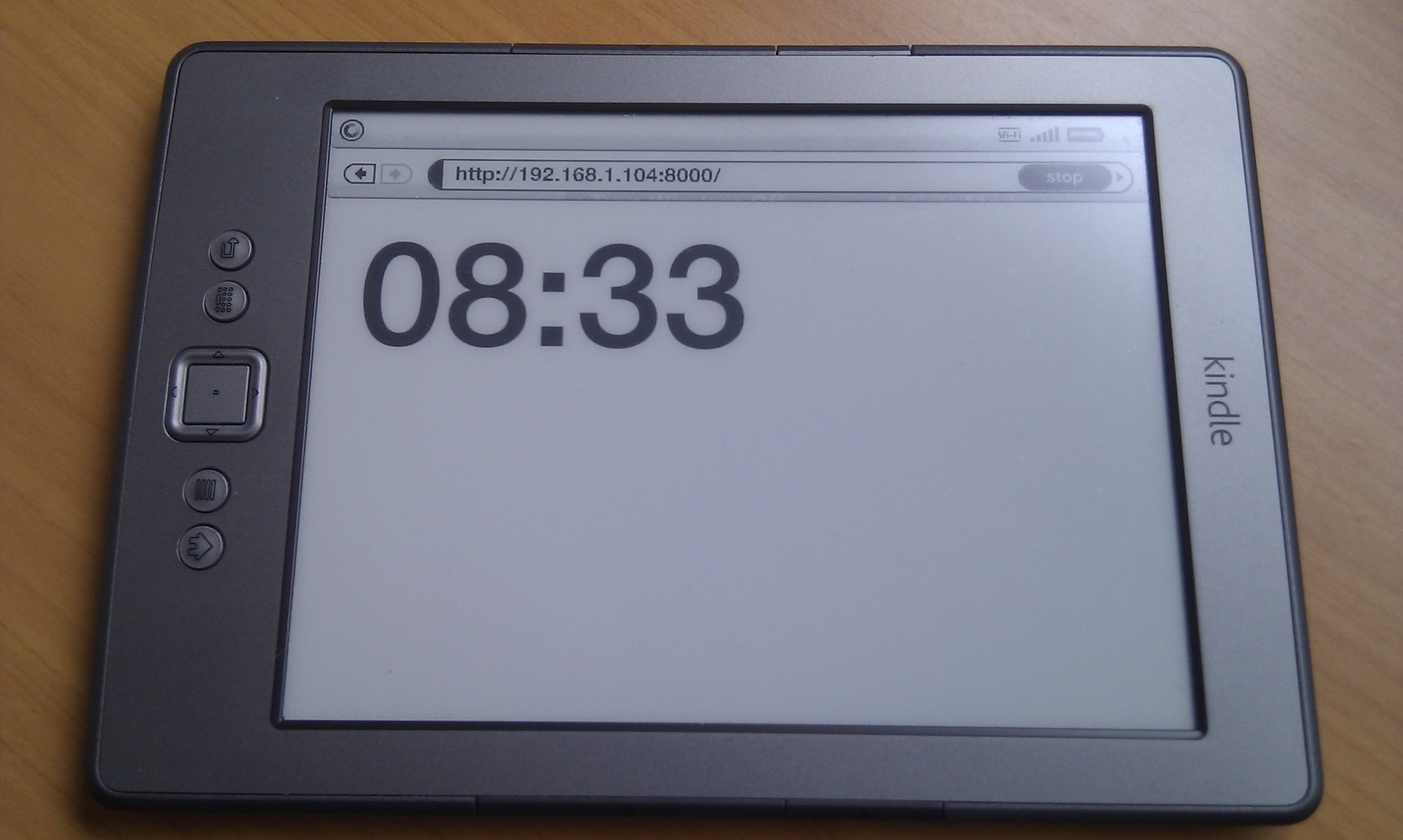
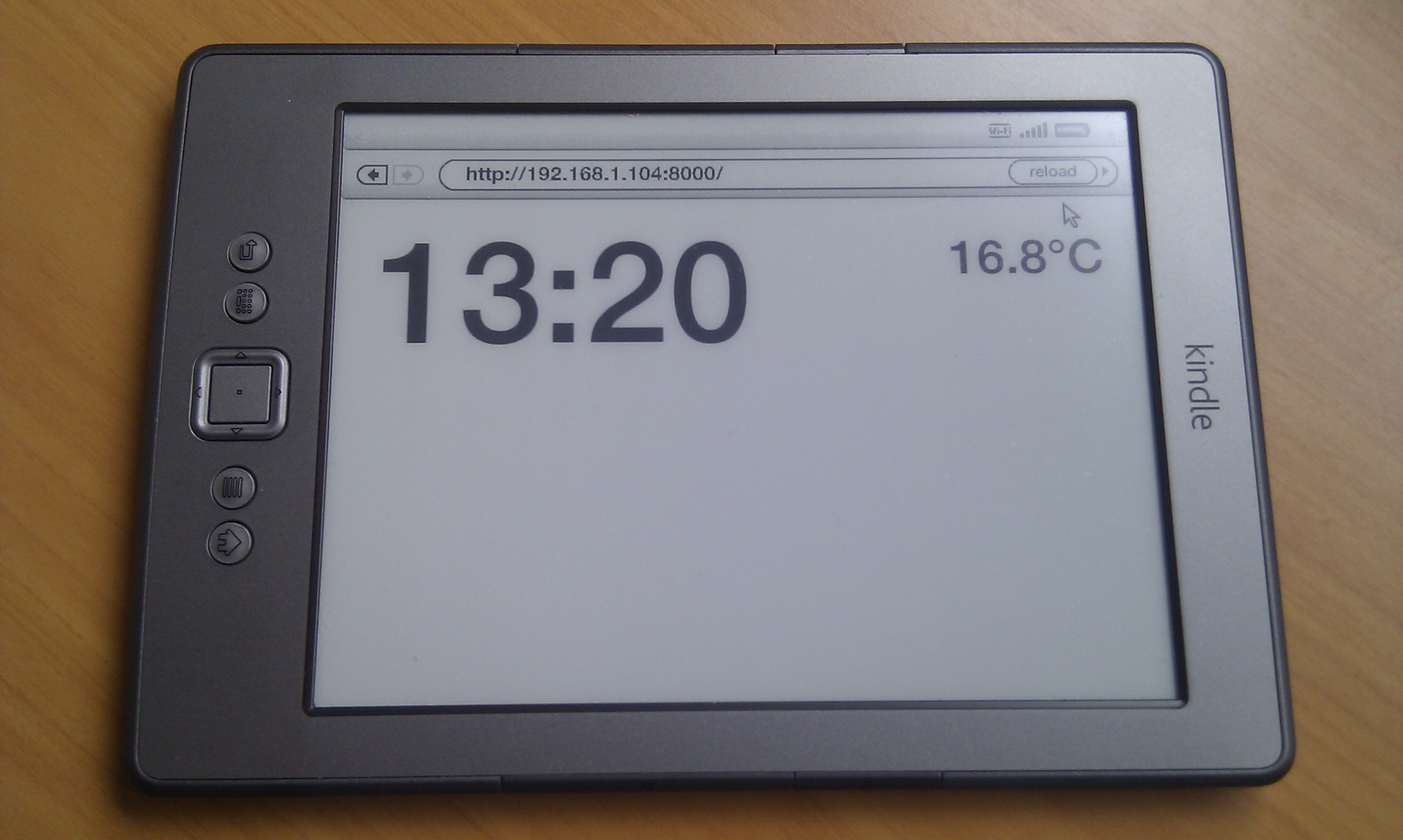
Added first dashboard data item - temperature.
Very basic code, but that's all i need at the moment.

Changed region(s): [[0.0312, 0.0309, 0.9688, 1.0]]

diff --git a/server/server.py b/server/server.py
@@ -1,8 +1,24 @@
 import BaseHTTPServer
+import ConfigParser
+import io
+import string
+import urllib
 
 
 # Settings
 PORT_NUMBER = 8000
+
+
+def temperature():
+    try:
+        URL = "http://www.bom.gov.au/fwo/IDT60901/IDT60901.94970.axf"
+        data = urllib.urlopen(URL).read()
+        for line in data.split("\n"):
+            if line.startswith("0,94970"):
+                return line.split(",")[7]
+    except:
+        pass
+    return "???"
 
 
 class MyHandler(BaseHTTPServer.BaseHTTPRequestHandler):
@@ -20,8 +36,16 @@ class MyHandler(BaseHTTPServer.BaseHTTPRequestHandler):
         filename = s.path[1:]
         if filename == "":
             filename = "dashboard.html"
-        with open(filename) as f:
-            s.wfile.write(f.read())
+        try:
+            with open(filename) as f:
+                if filename == "dashboard.html":
+                    template =  f.read()
+                    statichtml = template % {"TEMPERATURE":temperature()}
+                    s.wfile.write(statichtml)
+                else:
+                    s.wfile.write(f.read())
+        except:
+            pass
 
 
 if __name__ == '__main__':
